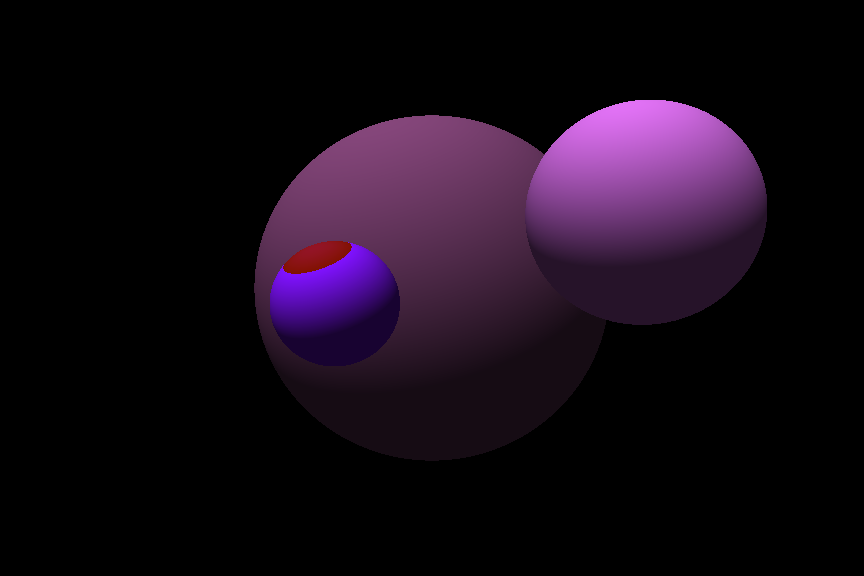
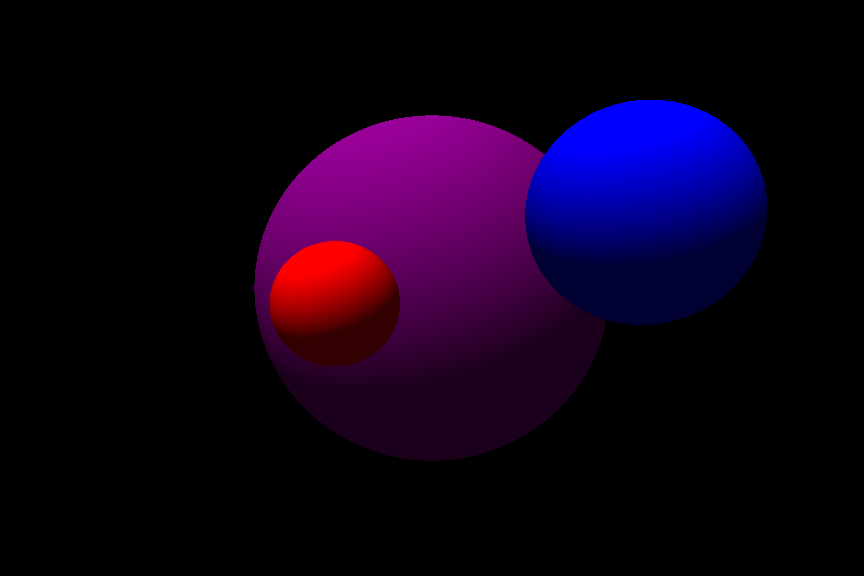
fix: clip n dot l and final color

Changed region(s): [[0.2812, 0.1562, 0.9062, 0.6562]]

diff --git a/raytracer.py b/raytracer.py
@@ -60,7 +60,7 @@ class Raytracer:
             l = self.scene.light.get_l()
             n_dot_l = np.clip(np.dot(n, l), 0, 1)
             ambient = 0.2
-            color = (n_dot_l + ambient) * min_obj.color
+            color = np.clip((n_dot_l + ambient) * min_obj.color, 0, 1)
         else:
             color = np.zeros(COLOR_CHANNELS)
         return color

diff --git a/main.py b/main.py
@@ -10,9 +10,9 @@ from scene import Scene, Sphere
 
 rng = np.random.default_rng()
 COLORS = [
-    rng.random(COLOR_CHANNELS),
-    rng.random(COLOR_CHANNELS),
-    rng.random(COLOR_CHANNELS)
+    np.array([128 / 255, 0, 128 / 255]),
+    np.array([250 / 255, 0, 0]),
+    np.array([0, 0, 250 / 255])
 ]
 RS = [0.8, 0.2, 0.3]
 POS = [
